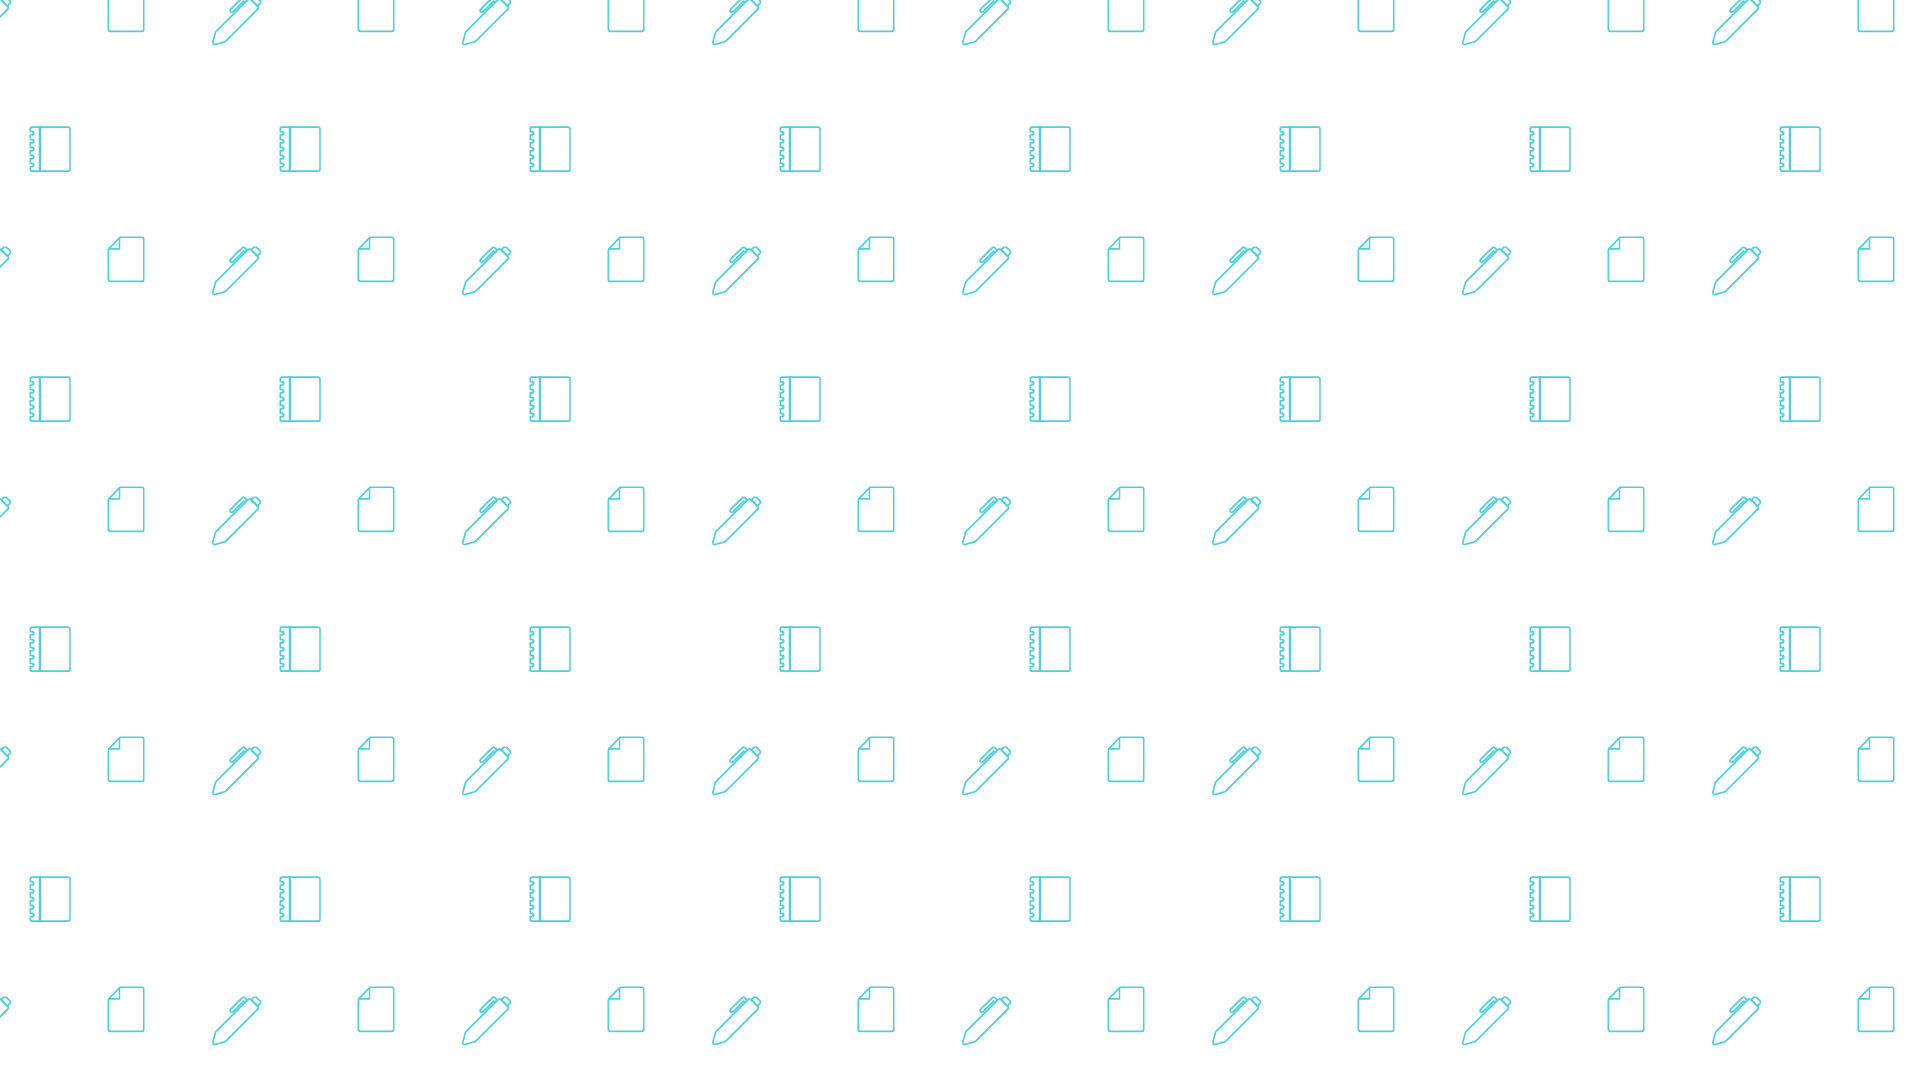
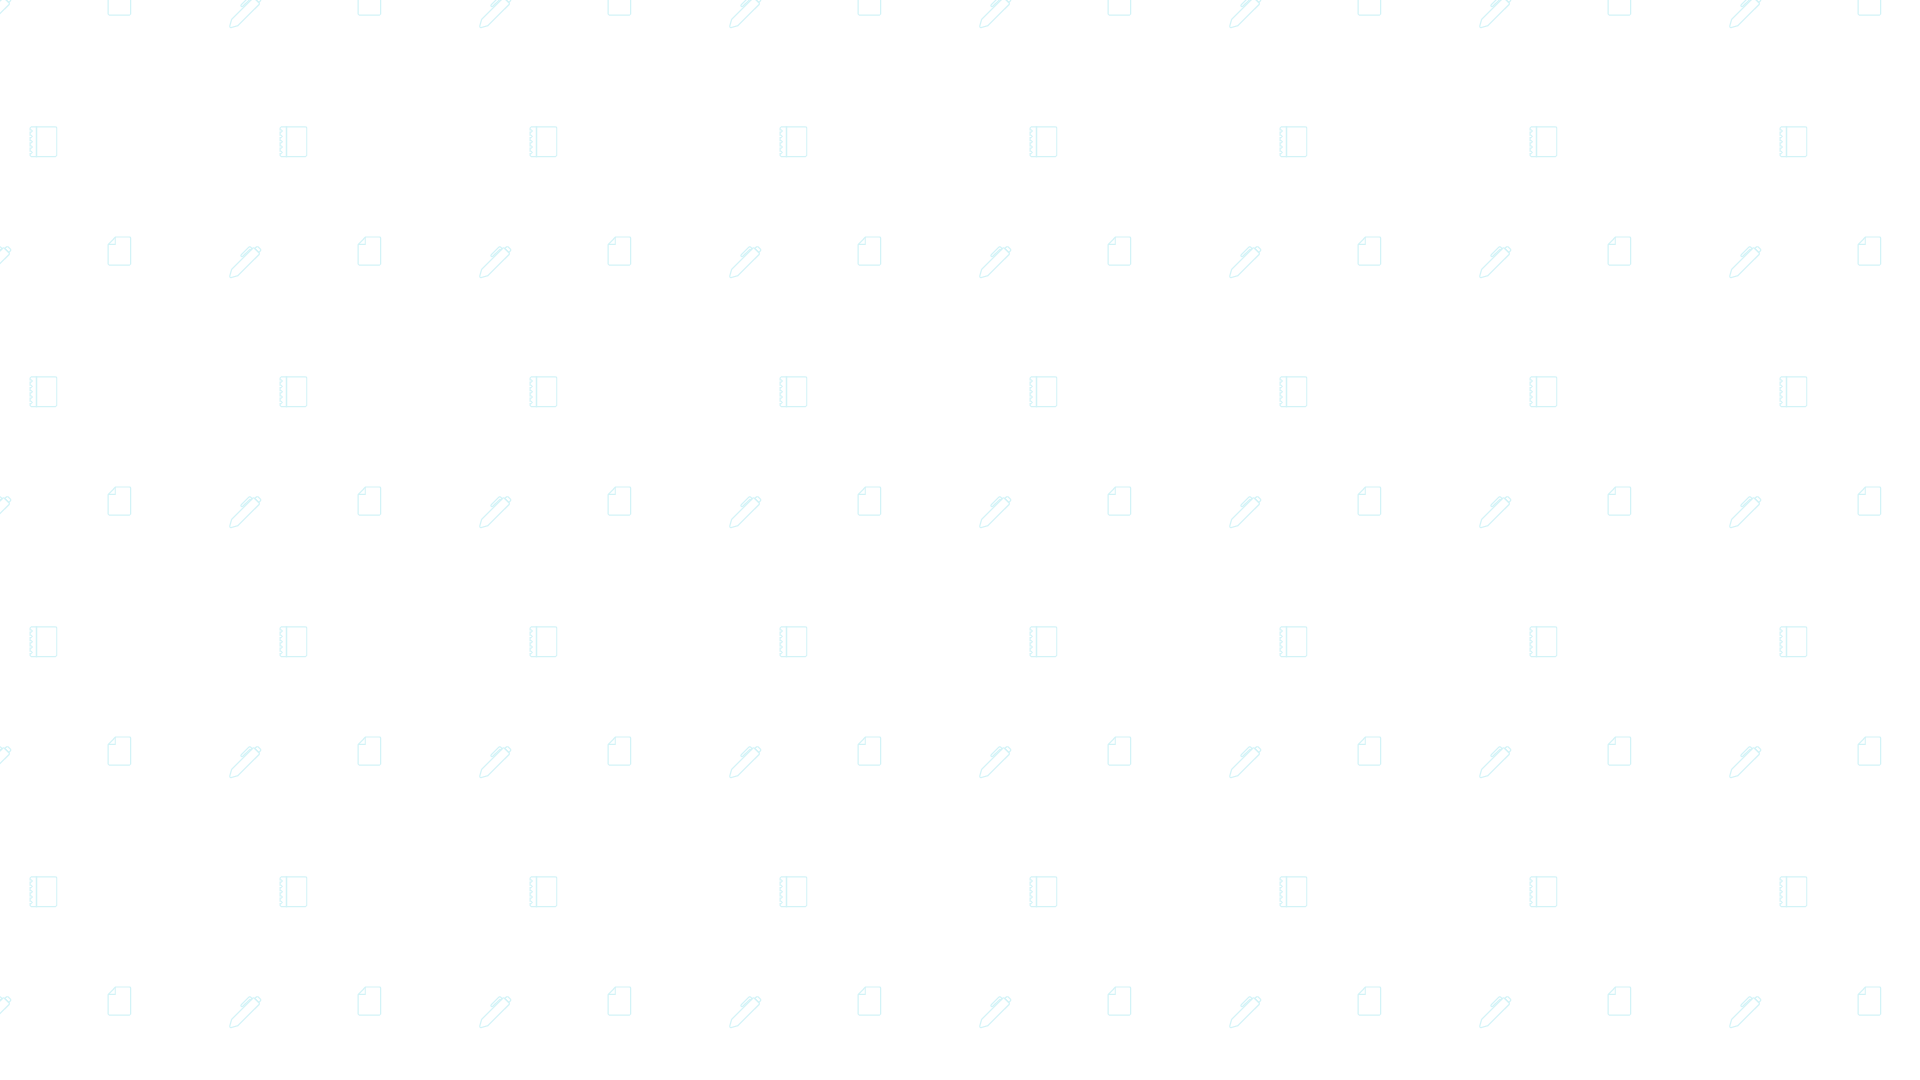
added nice background

diff --git a/pub_html_CG/css/main.css b/pub_html_CG/css/main.css
@@ -6,13 +6,12 @@ body {
   padding: 2rem;
   max-width: 110em;
   margin: auto;
-  background: url(cyan_pens.jpg) center center cover no-repeat fixed;
-  /* background-image: url(images/1.png);
+  background-image: url('../images/1.png');
   background-position: center center;
   background-repeat: no-repeat;
   background-attachment: fixed;
   background-size: cover; */
-  /* background-color:#464646; */
+  /* background-color:#464646;
   /* https://www.w3schools.com/howto/howto_css_center_website.asp */
 }
 
